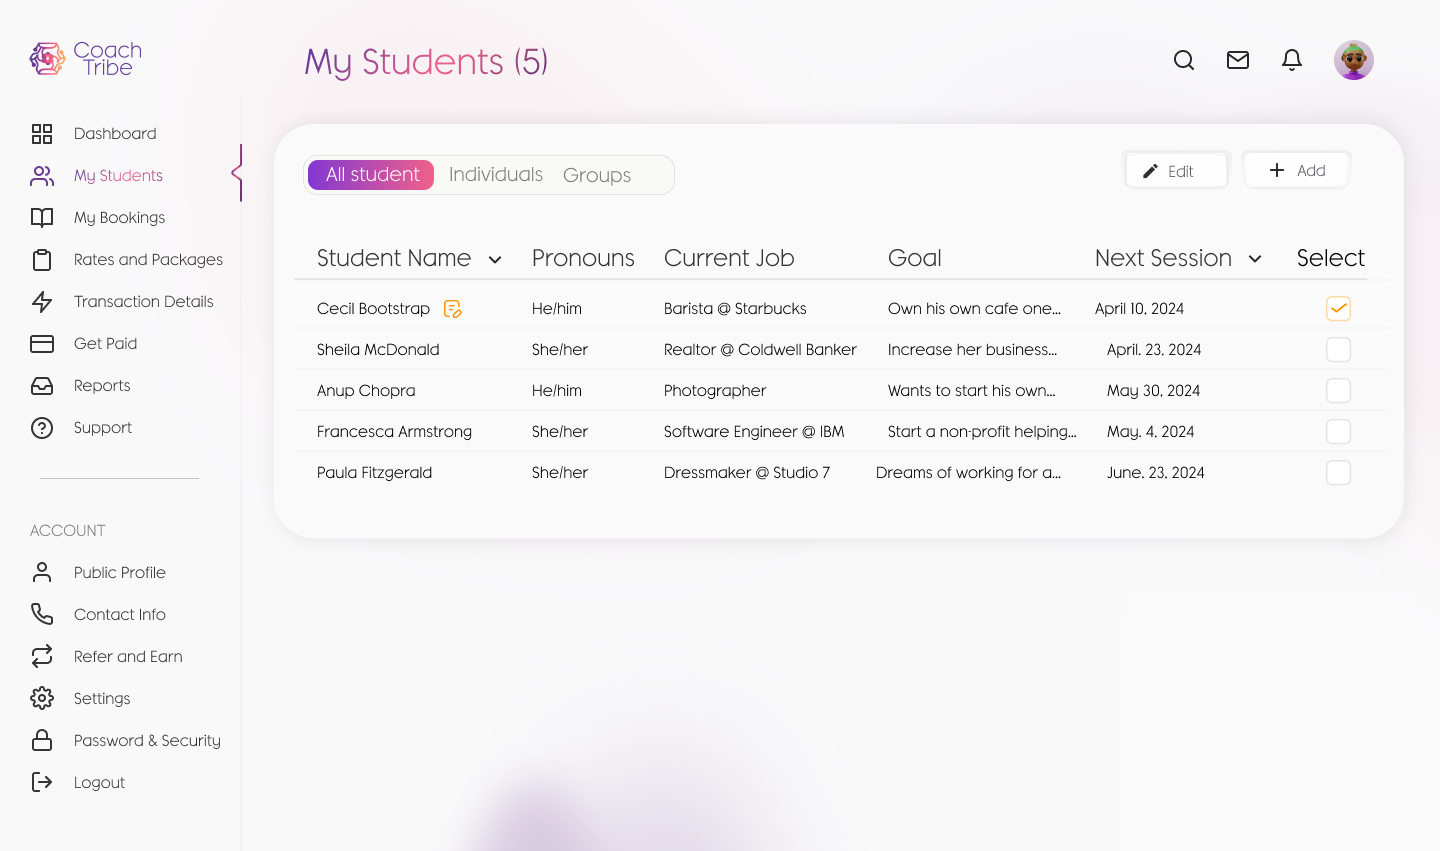
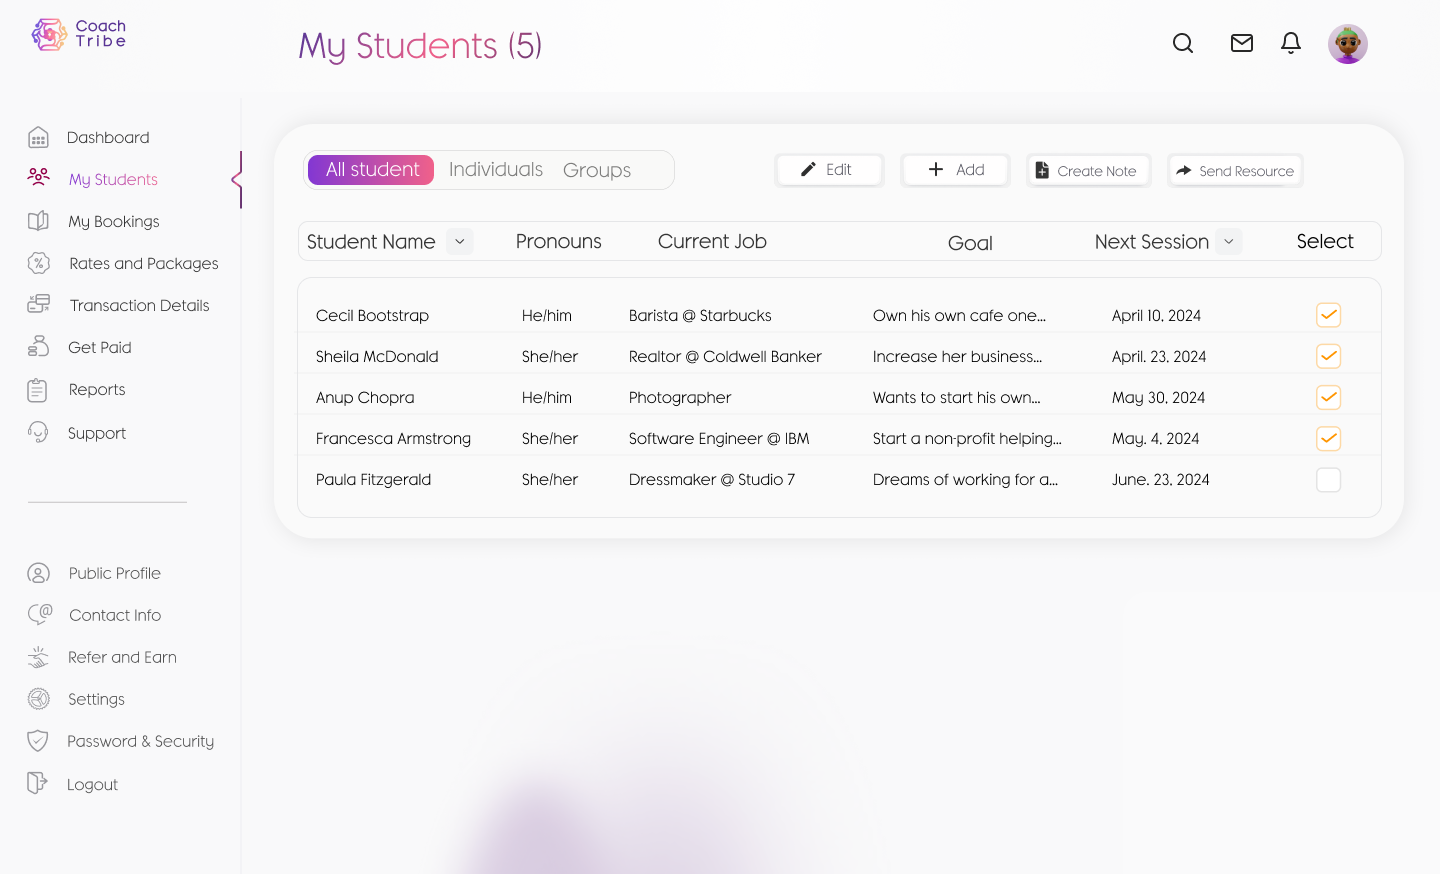
added first set of images to graphic design portfolio

diff --git a/css/graphic-design-p.css b/css/graphic-design-p.css
@@ -1,5 +1,5 @@
 :root {
-  --background-color: hsla(0, 0%, 9.68%, 100%);
+  --smoky: hsla(0, 0%, 11%, 100%);
   --mild-font-color: #C7CAD1;
   --mid-font-color: #eeeeee;
   --dim-font-color: #979292;
@@ -18,13 +18,14 @@
     #AB84FF 100%
   );
   --segmentation-border: 0.1px solid #2E3138;
+  --guid-border: 0.1px solid hsla(210, 0%, 14%, 100%);
   --segmentation-border-radius: 10px;
 }
 #portfolio---header---banner {
   display: flex;
   position: relative;
   flex-direction: column;
-  background-color: var(--background-color);
+  background-color: var(--smoky);
   justify-content: center;
   align-items: center;
   width: 95%;
@@ -62,7 +63,7 @@
 /* bio intro section :  container holding bio intro text and profile photo ............................................................ */
 #portfolio---intro-bio {
   display: flex;
-  background-color: var(--background-color);
+  background-color: var(--smoky);
   flex-direction: row;
   justify-content: center;
   align-items: center;
@@ -181,7 +182,7 @@
   width: 40%;
   height: auto;
   gap: 30px;
-  background-color: var(--background-color);
+  background-color: var(--smoky);
 }
 .technical--info {
   display: flex;
@@ -194,7 +195,7 @@
   border: var(--segmentation-border);
   border-radius: var(--segmentation-border-radius);
 }
-.technical--info--header {
+.black--header {
   display: flex;
   position: relative;
   color: #ffffff;
@@ -206,7 +207,7 @@
   height: fit-content;
   border-radius: 5px;
 }
-.technical--info--header::after {
+.black--header::after {
   content: "";
   display: flex;
   position: absolute;
@@ -219,7 +220,7 @@
   height: 100%;
   border-radius: 5px;
 }
-.technical--info h3 {
+.black--header h3 {
   display: flex;
   color: #ffffff;
   flex-direction: column;
@@ -282,31 +283,22 @@
   height: 40px;
   border-radius: 5px;
 }
-#experience--header {
-  display: flex;
-  position: relative;
-  color: #ffffff;
-  background-image: var(--header-gradient);
-  flex-direction: column;
-  justify-content: center;
-  align-items: center;
-  width: 100%;
-  height: fit-content;
-  border-radius: 5px;
-}
+
 #experience {
   display: flex;
   position: relative;
   flex-direction: column;
-  background-color: #00000020;
+  background-color: var(--smoky);
   color: #ffffff;
   justify-content: center;
+  border: var(--guid-border);
   align-items: center;
   width: 60%;
   height: 100%;
   padding: 10px;
   border-radius: 5px;
 }
+
 .experience-entry {
   content: "";
   display: flex;
@@ -334,7 +326,7 @@
   display: flex;
   position: relative;
   color: var(--mid-font-color);
-  background-color: #00000020;
+  background-color: var(--smoky);
   flex-direction: row;
   justify-content: center;
   align-items: center;
@@ -367,14 +359,18 @@
   display: flex;
   position: relative;
   flex-direction: column;
-  background-color: #00000020;
+  background-color: var(--smoky);
   color: #ffffff;
   justify-content: center;
   align-items: center;
-  width: 100%;
+  width: 90%;
   height: auto;
   padding: 10px;
   border-radius: 5px;
+  border: var(--guid-border);
+}
+.work--show-case--container:hover {
+  border: 1px solid #8c02af;
 }
 .work--show-cased--header {
   display: flex;
@@ -390,14 +386,38 @@
 }
 .work--show-case--gallery {
   display: flex;
+  flex-wrap: wrap;
   position: relative;
-  justify-content: center;
+  justify-content: flex-start;
   align-items: center;
   width: 100%;
   height: auto;
   padding: 10px;
   gap: 10px;
 }
+.ghx-p--img {
+  display: flex;
+  position: relative;
+  justify-content: center;
+  align-items: center;
+}
+.ghx-p--img.sqr {
+  width: 300px;
+  height: 300px;
+}
+.ghx-p--img.rec {
+  width: 400px;
+  height: 300px;
+}
+.ghx-p--img.rec-y {
+  width: 210px;
+  height: 300px;
+}
+
+
+
+
+
 /*=========  .MEDIA QUERIES ================= */
 /* <<<<<<<<>>>>>>>>  desktop2 <<<<<<<<>>>>>>>> */
 @media screen and (max-width: 1358px) {

diff --git a/graphic-design-portfolio.html b/graphic-design-portfolio.html
@@ -285,8 +285,8 @@
       <section id="technical--info--nd--experience">
         <span id="technical--info--container">
           <div class="technical--info">
-            <header class="technical--info--header ">
-              <h3>Tools</h3>
+            <header class="black--header ">
+              <h3>Craft Tools</h3>
             </header>
             <span class="technical-info--entry--container img">
               <img src="icn/adobe-illustrattor-colored.png" alt="" />
@@ -304,7 +304,7 @@
             </span>
           </div>
           <div class="technical--info">
-            <header class="technical--info--header">
+            <header class="black--header">
               <h3>Technical Skills</h3>
             </header>
             <ul class="technical-info--entry--container">
@@ -313,10 +313,18 @@
               <li class="technical-info--entry">Illustration</li>
               <li class="technical-info--entry">Promotion Design</li>
               <li class="technical-info--entry">3D Modeling</li>
+              <li class="technical-info--entry">UI/UX Design</li>
+              <li class="technical-info--entry">User Research</li>
+              <li class="technical-info--entry">Usability Testing</li>
+              <li class="technical-info--entry">Photography</li>
+              <li class="technical-info--entry">Packaging Design</li>
+              <li class="technical-info--entry">Fashion Design</li>
+              <li class="technical-info--entry">Product Design</li>
+              
             </ul>
           </div>
           <div class="technical--info">
-            <header class="technical--info--header">
+            <header class="black--header">
               <h3>Interests</h3>
             </header>
             <ul class="technical-info--entry--container">
@@ -329,8 +337,8 @@
           </div>
         </span>
         <span id="experience">
-          <header id="experience--header">
-            <h2>Experience</h2>
+          <header class="black--header">
+            <h3>Experience</h3>
           </header>
           <section class="experience-entry">
             <span class="experience--entry-span">
@@ -442,12 +450,14 @@
           <p>Explore a selection of my recent projects and creative work.</p>
         </header>
           <div class="work--show-case--gallery">
-            <img src="/img/graphic-design-portfolio/work-showcase-1.png" alt="" />
-            <img src="/img/graphic-design-portfolio/work-showcase-2.png" alt="" />
-            <img src="/img/graphic-design-portfolio/work-showcase-3.png" alt="" />
-            <img src="/img/graphic-design-portfolio/work-showcase-4.png" alt="" />
-            <img src="/img/graphic-design-portfolio/work-showcase-5.png" alt="" />
-            <img src="/img/graphic-design-portfolio/work-showcase-6.png" alt="" />
+            <img class="ghx-p--img sqr " src="/img/t-pumpy-vec-logo.png" alt="" />
+            <img class="ghx-p--img sqr" src="/img/t-pumpy-social1.png" alt="" />
+            <img class="ghx-p--img rec" src="/img/t-pumpy-shirts.png" alt="" />
+            <img class="ghx-p--img rec-y" src="/img/t-pumpy-caps.png" alt="" />
+            <img class="ghx-p--img sqr" src="/img/t-pumpy-social2.png" alt="" />
+            <img class="ghx-p--img sqr" src="/img/t-pumpy-social3.png" alt="" />
+            <img class="ghx-p--img rec-y" src="/img/t-pumpy-flyer.png" alt="" />
+            <img class="ghx-p--img rec-y" src="/img/t-pumpy-price-list.png" alt="" />
           </div>
 
       </section>

diff --git a/css/cradled-bubble-btn-v2.css b/css/cradled-bubble-btn-v2.css
@@ -11,7 +11,7 @@
     #000000 94%,
     #444242 100%
   );
-  width: 200px;
+  width: 250px;
   height: 50px;
   align-content: center;
   justify-content: center;
